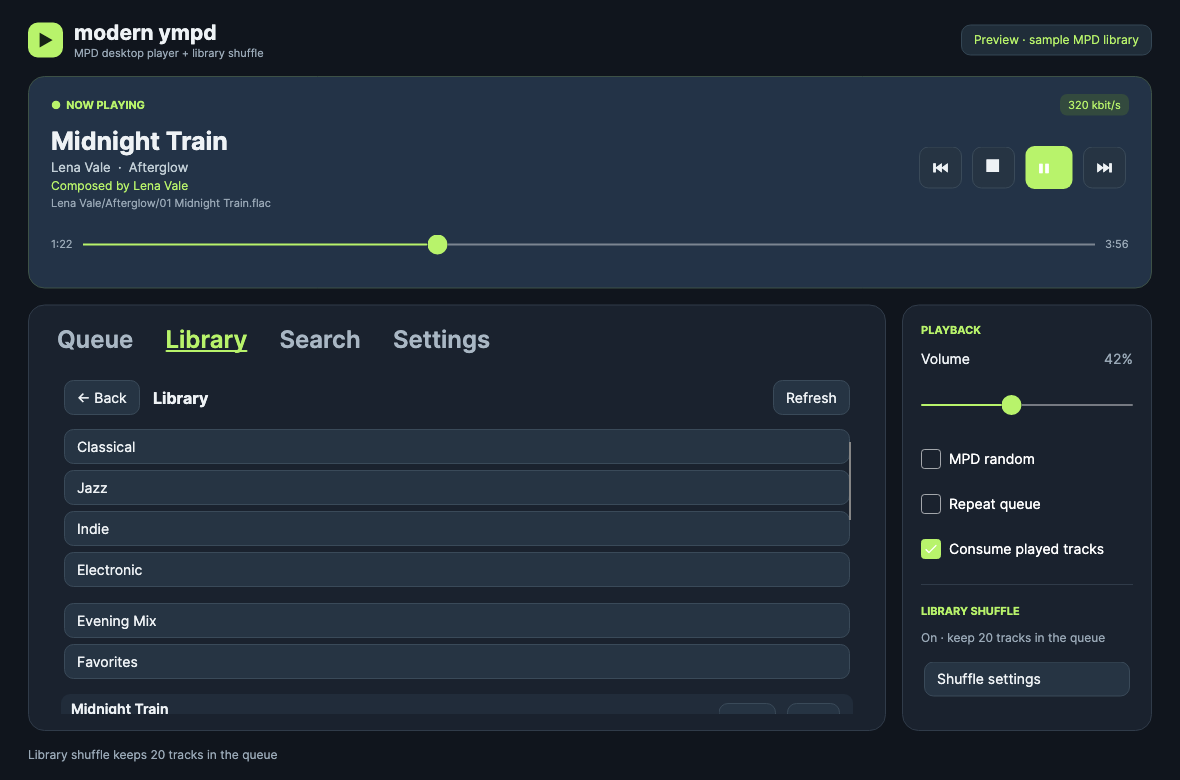
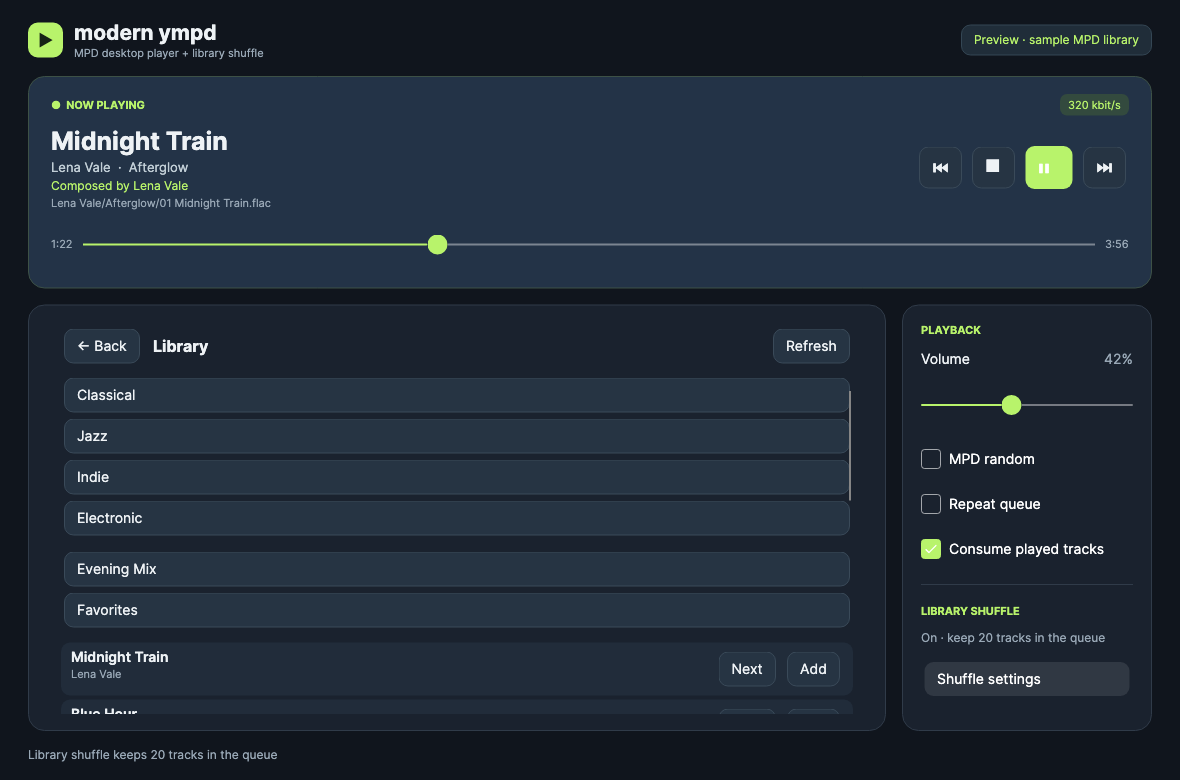
Use native macOS menus and log managed crashes

diff --git a/ModernYmpd/MainWindow.axaml.cs b/ModernYmpd/MainWindow.axaml.cs
@@ -101,6 +101,11 @@ public partial class MainWindow : Window, INotifyPropertyChanged
         DataContext = this;
         client = new MpdClient(settings);
         shuffle = new ShuffleService(client, settings);
+        if (OperatingSystem.IsMacOS())
+        {
+            PageInput.Classes.Add("native-navigation");
+            InstallMacMenu();
+        }
         shuffle.StateChanged += text => Dispatcher.UIThread.Post(() => Message = text);
         HostInput.Text = settings.Host;
         PortInput.Text = settings.Port.ToString(CultureInfo.InvariantCulture);
@@ -132,6 +137,42 @@ public partial class MainWindow : Window, INotifyPropertyChanged
         Notify(property);
     }
     private void Notify(string? name) => PropertyChanged?.Invoke(this, new PropertyChangedEventArgs(name));
+    public void ShowError(string error) => Message = error;
+    private void InstallMacMenu()
+    {
+        var view = new NativeMenuItem("Ansicht") { Menu = new NativeMenu() };
+        foreach (var (name, page) in new[]
+        {
+            ("Queue", 0), ("Bibliothek", 1), ("Suche", 2), ("Einstellungen", 3)
+        })
+        {
+            var item = new NativeMenuItem(name);
+            item.Click += (_, _) => PageInput.SelectedIndex = page;
+            view.Menu.Items.Add(item);
+        }
+
+        var playback = new NativeMenuItem("Wiedergabe") { Menu = new NativeMenu() };
+        void AddPlayback(string name, Func<Task> action)
+        {
+            var item = new NativeMenuItem(name);
+            item.Click += async (_, _) => await ActAsync(action, name);
+            playback.Menu.Items.Add(item);
+        }
+        AddPlayback("Vorheriger Titel", () => client.PreviousAsync());
+        AddPlayback("Wiedergabe/Pause", async () =>
+        {
+            if (currentStatus?.State == "play") await client.PauseAsync(true);
+            else if (currentStatus?.State == "pause") await client.PauseAsync(false);
+            else await client.PlayAsync();
+        });
+        AddPlayback("Stopp", () => client.StopAsync());
+        AddPlayback("Nächster Titel", () => client.NextAsync());
+
+        var menu = new NativeMenu();
+        menu.Items.Add(view);
+        menu.Items.Add(playback);
+        NativeMenu.SetMenu(this, menu);
+    }
     private void PopulateDemo()
     {
         settings.ShowFilePath = true;

diff --git a/ModernYmpd/CrashLog.cs b/ModernYmpd/CrashLog.cs
@@ -1,0 +1,20 @@
+namespace ModernYmpd;
+
+internal static class CrashLog
+{
+    public static string FilePath => Path.Combine(
+        Path.GetDirectoryName(AppSettings.FilePath)!, "errors.log");
+
+    public static void Write(Exception error, string context)
+    {
+        try
+        {
+            Directory.CreateDirectory(Path.GetDirectoryName(FilePath)!);
+            File.AppendAllText(FilePath,
+                $"[{DateTimeOffset.Now:O}] {context}{Environment.NewLine}{error}{Environment.NewLine}{Environment.NewLine}");
+            if (!OperatingSystem.IsWindows())
+                File.SetUnixFileMode(FilePath, UnixFileMode.UserRead | UnixFileMode.UserWrite);
+        }
+        catch { /* Logging must never cause another crash. */ }
+    }
+}

diff --git a/ModernYmpd/Program.cs b/ModernYmpd/Program.cs
@@ -12,6 +12,16 @@ class Program
     [STAThread]
     public static int Main(string[] args)
     {
+        AppDomain.CurrentDomain.UnhandledException += (_, e) =>
+        {
+            if (e.ExceptionObject is Exception error)
+                CrashLog.Write(error, "Unhandled exception");
+        };
+        TaskScheduler.UnobservedTaskException += (_, e) =>
+        {
+            CrashLog.Write(e.Exception, "Unobserved task exception");
+            e.SetObserved();
+        };
         if (args.Length == 2 && args[0] == "--render-screenshots")
         {
             ScreenshotDirectory = Path.GetFullPath(args[1]);

diff --git a/ModernYmpd/App.axaml.cs b/ModernYmpd/App.axaml.cs
@@ -45,6 +45,11 @@ public partial class App : Application
                     }
                     else if (!wasVisible) window.Hide();
                 }
+                catch (Exception error)
+                {
+                    CrashLog.Write(error, "Exit dialog");
+                    window.ShowError(error.Message);
+                }
                 finally { promptOpen = false; }
             }
             window.Closing += async (_, e) =>

diff --git a/README.md b/README.md
@@ -13,6 +13,8 @@ the ympd web service is not required.
 - Keep the queue filled to a chosen size with random library songs
 - When closing or quitting, choose whether the app keeps running in the
   background (including queue filling when enabled) or exits completely
+- On macOS, use the system menu bar's **Ansicht** menu for Queue, Bibliothek,
+  Suche and Einstellungen, and **Wiedergabe** for playback controls
 
 The random filler uses MPD's `searchcount` and `search ... window` commands. It
 chooses random library positions, then avoids songs already queued and the last
@@ -81,6 +83,7 @@ build output under `dist` is ignored by Git.
 The default MPD address is `127.0.0.1:6600`. Connection and shuffle settings
 are saved in the user's application-data folder under
 `modern-ympd/settings.json`. The MPD password is held only until the app quits.
+Unhandled .NET errors are written to `modern-ympd/errors.log` in the same folder.
 If the original ympd service is also set to fill the queue, disable that setting
 there to avoid two independent fillers.
 
